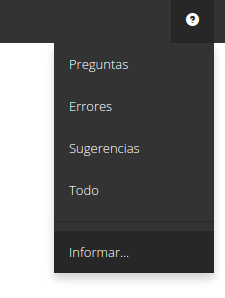
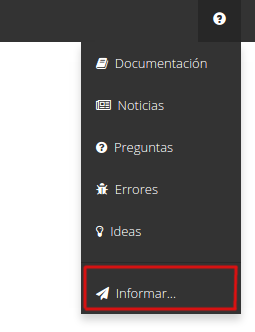
- El instalador ya puede crear bases de datos en PostgreSQL. - Eliminado ; doble en fs_mysql. - Actualizada la imagen del menú del instalador.

Changed region(s): [[0.0, 0.1208, 1.0, 0.9664], [0.4356, 0.6644, 0.56, 0.7248], [0.8089, 0.0302, 0.9022, 0.0906]]

diff --git a/install.php b/install.php
@@ -79,7 +79,7 @@ function guarda_config($nombre_archivo)
       fwrite($archivo, "/// el número de elementos a mostrar en pantalla\n");
       fwrite($archivo, "define('FS_ITEM_LIMIT', 50);\n");
       fwrite($archivo, "\n");
-      fwrite($archivo, "/// desactiva el poder modificar plugins (añadir,descargar y eliminar)\n");
+      fwrite($archivo, "/// desactiva el poder modificar plugins (añadir, descargar y eliminar)\n");
       fwrite($archivo, "define('FS_DISABLE_MOD_PLUGINS', FALSE);\n");
       fwrite($archivo, "\n");
       fwrite($archivo, "/// desactiva el poder añadir plugins manualmente\n");
@@ -151,22 +151,22 @@ else if( isset($_REQUEST['db_type']) )
          {
             // Comprobamos que la BD exista, de lo contrario la creamos
             $db_selected = mysqli_select_db($connection, $_REQUEST['db_name']);
-            if(!$db_selected)
+            if($db_selected)
+            {
+               guarda_config($nombre_archivo);
+            }
+            else
             {
                $sqlCrearBD = "CREATE DATABASE `".$_REQUEST['db_name']."`;";
-               if( !mysqli_query($connection, $sqlCrearBD) )
+               if( mysqli_query($connection, $sqlCrearBD) )
+               {
+                  guarda_config($nombre_archivo);
+               }
+               else
                {
                   $errors[] = "db_mysql";
                   $errors2[] = mysqli_error($connection);
                }
-               else
-               {
-                  guarda_config($nombre_archivo);
-               }
-            }
-            else
-            {
-               guarda_config($nombre_archivo);
             }
          }
       }
@@ -180,11 +180,30 @@ else if( isset($_REQUEST['db_type']) )
    {
       if( function_exists('pg_connect') )
       {
-         $connection = @pg_connect('host='.$_REQUEST['db_host'].' dbname='.$_REQUEST['db_name'].' port='.$_REQUEST['db_port'].
-                 ' user='.$_REQUEST['db_user'].' password='.$_REQUEST['db_pass'] );
+         $connection = @pg_connect('host='.$_REQUEST['db_host'].' port='.$_REQUEST['db_port'].' user='.$_REQUEST['db_user'].' password='.$_REQUEST['db_pass'] );
          if($connection)
          {
-            guarda_config($nombre_archivo);
+            // Comprobamos que la BD exista, de lo contrario la creamos
+            $connection2 = @pg_connect('host='.$_REQUEST['db_host'].' port='.$_REQUEST['db_port'].' dbname='.$_REQUEST['db_name']
+                    .' user='.$_REQUEST['db_user'].' password='.$_REQUEST['db_pass'] );
+            
+            if($connection2)
+            {
+               guarda_config($nombre_archivo);
+            }
+            else
+            {
+               $sqlCrearBD = "CREATE DATABASE ".$_REQUEST['db_name'].";";
+               if( pg_query($connection, $sqlCrearBD) )
+               {
+                  guarda_config($nombre_archivo);
+               }
+               else
+               {
+                  $errors[] = "db_postgresql";
+                  $errors2[] = 'Error al crear la base de datos.';
+               }
+            }
          }
          else
          {

diff --git a/base/fs_mysql.php b/base/fs_mysql.php
@@ -285,7 +285,7 @@ class fs_mysql
             {
                $resultado[] = $row;
             }
-            $filas->free();;
+            $filas->free();
          }
          else
             self::$errors[] = self::$link->error;
